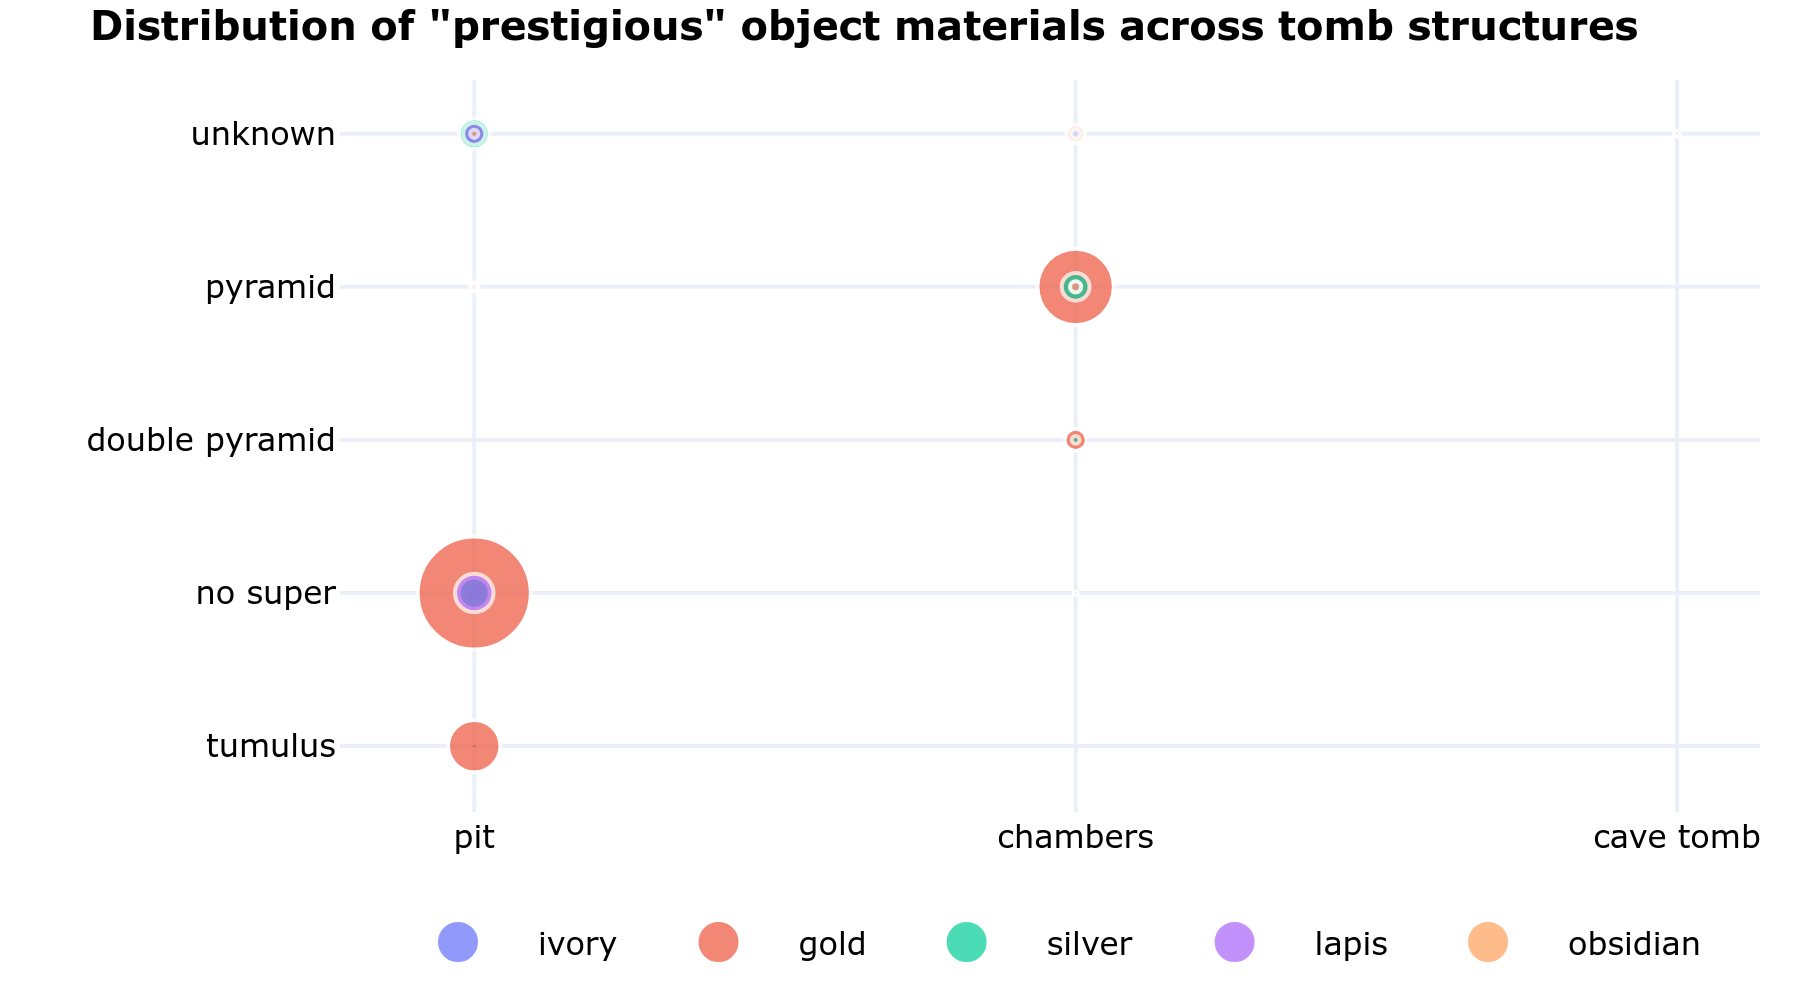
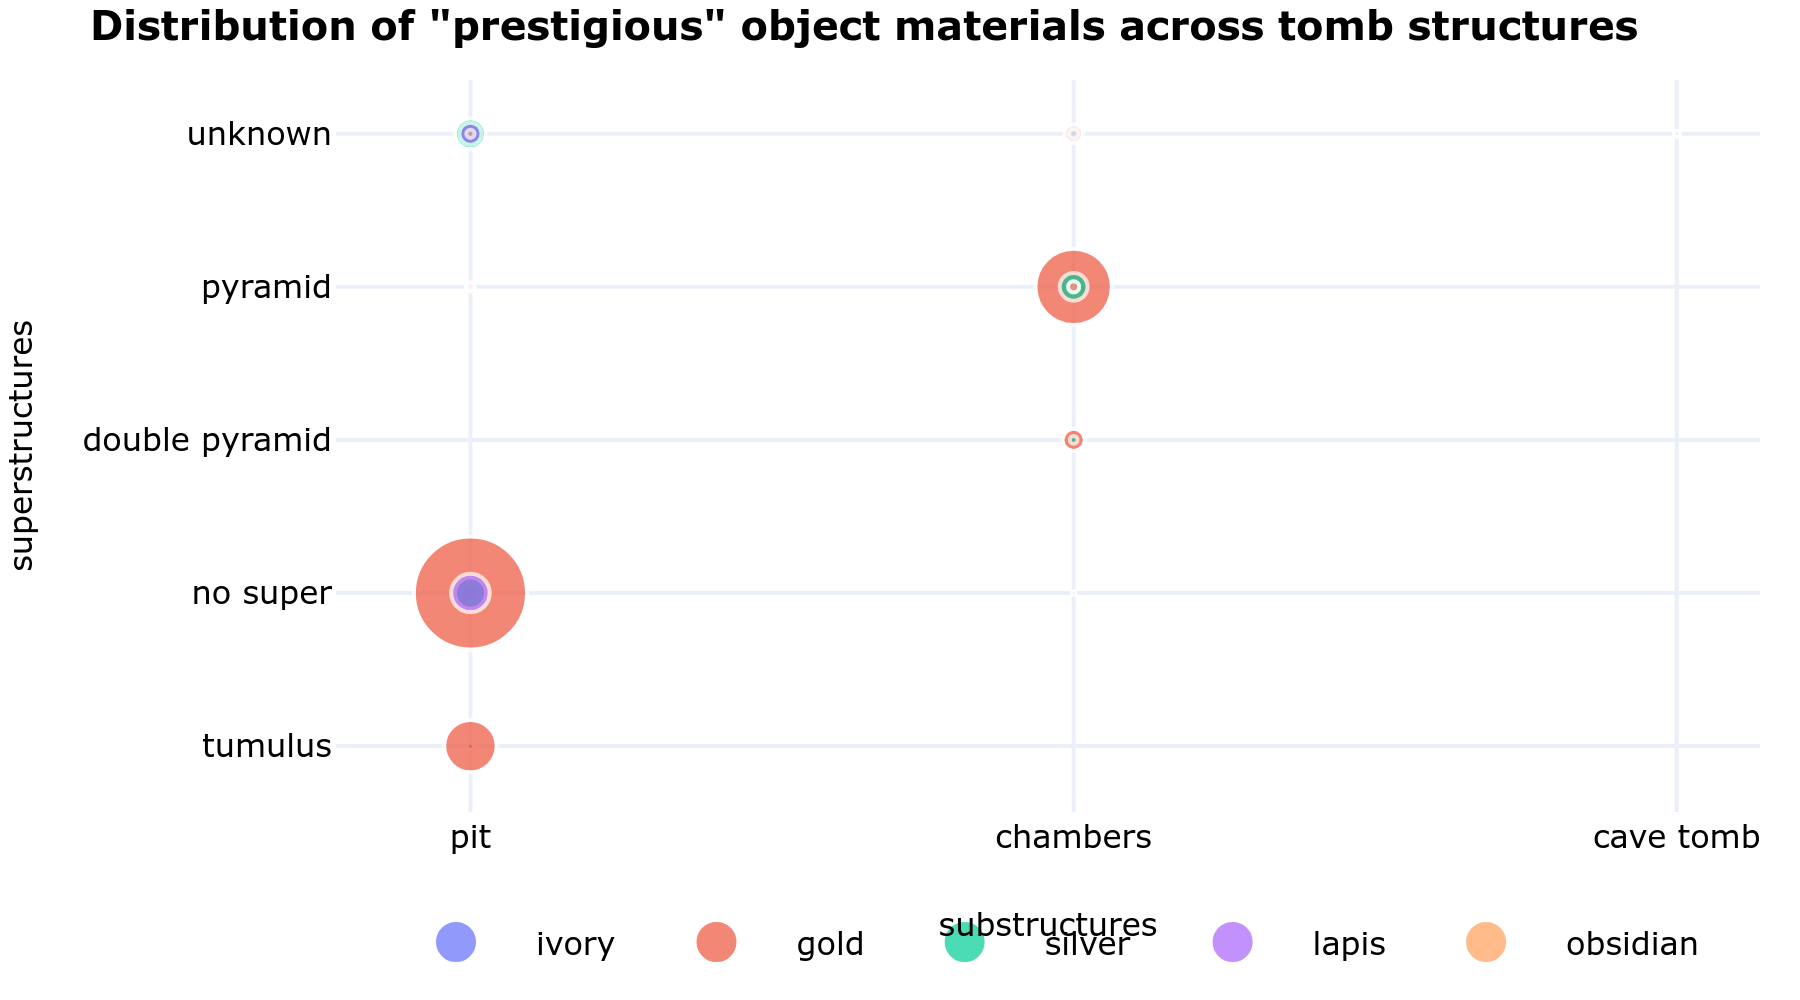
+ graphs

diff --git a/diversenile/quantity_tomb.py b/diversenile/quantity_tomb.py
@@ -7,64 +7,71 @@ engine = create_engine(f'mysql+pymysql://{os.getenv"DB_USER")}:{os.getenv("DB_PA
 
 query = """
 WITH combined_data AS (
-    SELECT
-        b.sub,
-        b.super,
-        a.artifact_id AS item_id,
-        'artifact' AS item_type
+    SELECT b.sub, b.super, b.burial_id, a.artifact_id AS item_id
     FROM artifacts a
     JOIN burials b ON b.burial_id = a.burial_id
-    WHERE dating = 'napatan' 
-        AND sub != 'deposit'
+    WHERE b.dating = 'napatan' 
+        AND b.sub != 'deposit'
         AND b.site_id IN (1,2,4,5,6,7,8,9,10)
-    
     UNION ALL
-    
-    SELECT
-        b.sub,
-        b.super,
-        am.amulet_id AS item_id,
-        'amulet' AS item_type
+    SELECT b.sub, b.super, b.burial_id, am.amulet_id AS item_id
     FROM amulets am
     JOIN burials b ON b.burial_id = am.burial_id
-    WHERE dating = 'napatan' 
-        AND sub != 'deposit'
+    WHERE b.dating = 'napatan' 
+        AND b.sub != 'deposit'
         AND b.site_id IN (1,2,4,5,6,7,8,9,10)
+),
+burial_totals AS (
+    SELECT sub, super, burial_id, COUNT(item_id) as total_items
+    FROM combined_data
+    GROUP BY sub, super, burial_id
 )
-SELECT
-    sub,
-    super,
-    COUNT(DISTINCT item_id) AS total
-FROM combined_data
-GROUP BY 1, 2
+SELECT 
+    sub, 
+    super, 
+    AVG(total_items) as median_total_items
+FROM (
+    SELECT
+        sub,
+        super,
+        total_items,
+        ROW_NUMBER() OVER (PARTITION BY sub, super ORDER BY total_items) as row_num,
+        COUNT(*) OVER (PARTITION BY sub, super) as total_count
+    FROM burial_totals
+) AS ranked
+WHERE row_num IN (FLOOR((total_count + 1) / 2), CEIL((total_count + 1) / 2))
+GROUP BY sub, super
+ORDER BY sub, super;
 """
 
 df = pd.read_sql(query, engine)
 
-fig = px.scatter(
+custom_colors = ['#92cad1','#e9724d', '#d6d727', '#79ccb3', '#868686']
+
+fig = px.bar(
     df,
-    x='sub',
-    y='super',
-    size='total',
-    #text='total',
-    title='<b>Distribution of quantity of objects by tomb structure</b>',
-    color_discrete_sequence=['#C0C0C0'],
+    x='super',
+    y='median_total_items',
+    color='sub',
+    text='median_total_items',
+    barmode='group',
+    title='<b>Median number of objects by tomb structure</b>',
+    color_discrete_sequence=custom_colors,
     template="plotly_white",
     labels={"total": "Total"},
 )
 
-#fig.update_traces(textposition='outside')
-fig.update_xaxes(title_text='')
-fig.update_yaxes(title_text='')
+fig.update_xaxes(title_text='substructures', title_font=dict(size=8))
+fig.update_yaxes(title_text='superstructures', title_font=dict(size=8))
 
 fig.update_layout(
     xaxis={'categoryorder': 'total descending'}, 
-    legend=dict(
-        orientation="h",
-        yanchor="top",
-        y=-0.10,
-        xanchor="center",
-        x=0.50),
+    # legend=dict(
+    #     orientation="h",
+    #     yanchor="top",
+    #     y=-0.10,
+    #     xanchor="center",
+    #     x=0.50),
         #traceorder='reversed'),
     font=dict(
         family="Verdana, sans-serif",
@@ -76,4 +83,6 @@ fig.update_layout(
     title_font=dict(size=10)
     )
 
-pio.write_image(fig, 'diversenile/images/quantity_tomb.png',scale=3, width=400, height=280)
+fig.update_traces(textposition='auto', textfont_size=6)
+
+pio.write_image(fig, 'diversenile/images/quantity_tomb.png',scale=4, width=480, height=190)

diff --git a/diversenile/burial_tombs.py b/diversenile/burial_tombs.py
@@ -6,18 +6,41 @@ from sqlalchemy import create_engine
 engine = create_engine(f'mysql+pymysql://{os.getenv"DB_USER")}:{os.getenv("DB_PASSWORD")}@localhost/{os.getenv("DB_NAME")}')
 
 query = """
-SELECT
-    a.artifact_type AS type,
-    b.sub,
-    b.super,
-    COUNT(b.burial_id) AS total
-FROM burials b
-JOIN artifacts a ON a.burial_id = b.burial_id
-WHERE dating = 'napatan' 
-    AND sub != 'deposit'
-    AND b.site_id IN (1,2,4,5,6,7,8,9,10)
-    AND artifact_type IN ('bead nets', 'burial containers', 'canopics', 'heart scarabs', 'mummy trappings', 'offering tables', 'offering vessels', 'stelae')
-GROUP BY 1,2,3
+WITH combined_data AS (
+    SELECT b.sub, b.super, b.burial_id, a.artifact_id AS item_id, a.artifact_material AS material
+    FROM artifacts a
+    JOIN burials b ON b.burial_id = a.burial_id
+    WHERE b.dating = 'napatan' 
+        AND b.sub != 'deposit'
+        AND a.artifact_type IN ('bead nets', 'burial containers', 'canopics', 'heart scarabs', 'mummy trappings', 'offering tables', 'offering vessels', 'stelae')
+        AND b.site_id IN (1,2,4,5,6,7,8,9,10)
+),
+burial_totals AS (
+    SELECT 
+        sub, 
+        super, 
+        burial_id, 
+        COUNT(item_id) as total_items
+    FROM combined_data
+    GROUP BY sub, super, burial_id
+)
+SELECT 
+    sub, 
+    super, 
+    AVG(total_items) as median_total_items
+FROM (
+    SELECT
+        sub,
+        super,
+        burial_id,
+        total_items,
+        ROW_NUMBER() OVER (PARTITION BY sub, super ORDER BY total_items) as row_num,
+        COUNT(*) OVER (PARTITION BY sub, super) as total_count
+    FROM burial_totals
+) AS ranked
+WHERE row_num IN (FLOOR((total_count + 1) / 2), CEIL((total_count + 1) / 2))
+GROUP BY sub, super
+ORDER BY sub, super;
 """
 
 df = pd.read_sql(query, engine)
@@ -34,9 +57,8 @@ fig = px.scatter(
     template="plotly_white",
 )
 
-#fig.update_traces(textposition='outside')
-fig.update_xaxes(title_text='')
-fig.update_yaxes(title_text='')
+fig.update_xaxes(title_text='substructures', title_font=dict(size=8))
+fig.update_yaxes(title_text='superstructures', title_font=dict(size=8))
 
 fig.update_layout(
     yaxis={'categoryorder': 'total ascending'}, 

diff --git a/diversenile/tombs.py b/diversenile/tombs.py
@@ -23,16 +23,14 @@ fig = px.scatter(
     df,
     x='sub',
     y='super',
-    size='total',
-    #text='total',
+    text='total',
     title='<b>Correlation of tomb super- and substructures</b>',
     color_discrete_sequence=['#C0C0C0'],
     template="plotly_white",
 )
 
-#fig.update_traces(textposition='outside')
-fig.update_xaxes(title_text='')
-fig.update_yaxes(title_text='')
+fig.update_xaxes(title_text='substructures', title_font=dict(size=8))
+fig.update_yaxes(title_text='superstructures', title_font=dict(size=8))
 
 fig.update_layout(
     yaxis={'categoryorder': 'total ascending'}, 
@@ -53,4 +51,6 @@ fig.update_layout(
     title_font=dict(size=10)
     )
 
-pio.write_image(fig, 'diversenile/images/tombs.png',scale=4, width=400, height=280)
+fig.update_traces(textposition='top right', textfont_size=6)
+
+pio.write_image(fig, 'diversenile/images/tombs.png',scale=4, width=450, height=250)

diff --git a/diversenile/inscribed_tomb.py b/diversenile/inscribed_tomb.py
@@ -55,9 +55,8 @@ fig = px.scatter(
     template="plotly_white",
 )
 
-#fig.update_traces(textposition='outside')
-fig.update_xaxes(title_text='')
-fig.update_yaxes(title_text='')
+fig.update_xaxes(title_text='substructures', title_font=dict(size=8))
+fig.update_yaxes(title_text='superstructures', title_font=dict(size=8))
 
 fig.update_layout(
     yaxis={'categoryorder': 'total ascending'}, 

diff --git a/diversenile/material_tomb.py b/diversenile/material_tomb.py
@@ -34,9 +34,8 @@ fig = px.scatter(
     template="plotly_white",
 )
 
-#fig.update_traces(textposition='outside')
-fig.update_xaxes(title_text='')
-fig.update_yaxes(title_text='')
+fig.update_xaxes(title_text='substructures', title_font=dict(size=8))
+fig.update_yaxes(title_text='superstructures', title_font=dict(size=8))
 
 fig.update_layout(
     yaxis={'categoryorder': 'total ascending'}, 
